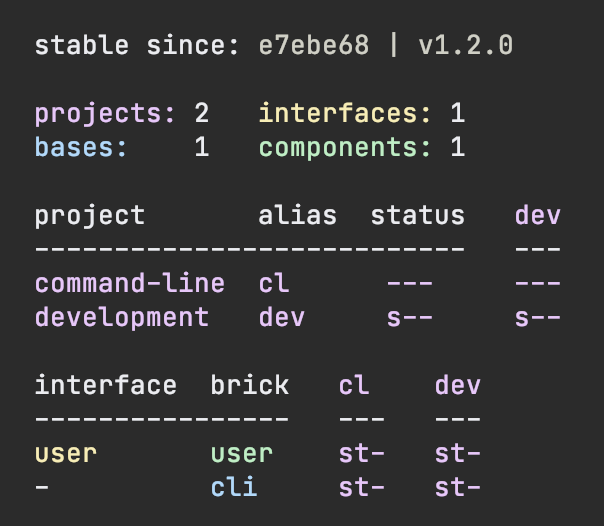
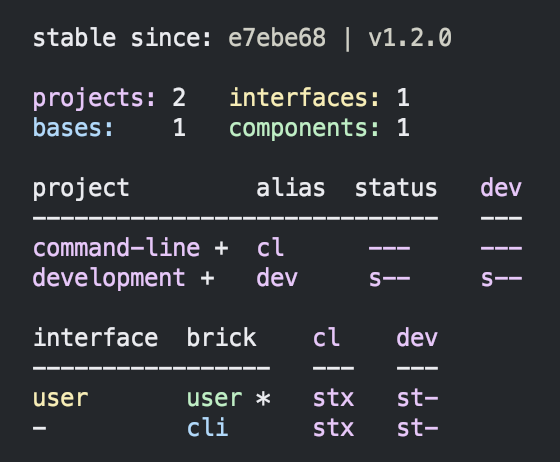
Show a + sign after projects when running the 'info' command if the project is indirectly changed (but itself unchanged).

diff --git a/readme.md b/readme.md
@@ -1443,6 +1443,23 @@ git log --pretty=format:'%H %d'
 Then it uses the first line of the output that matches the regular expression
 (e.g. `stable-*`) or if no match was found, the first commit in the repository.
 
+Earlier when we changed a project by editing its `deps.edn` file, it got a trailing `*`
+to indicate that it was changed. But what happens if only some of its bricks have changed?
+Let's try that by adding a comment to the `user.core` namespace:
+```
+(ns se.example.user.core)
+
+; hi
+(defn hello [name]
+  (str "Hello " name "!"))
+```
+...and execute the `info` command again:
+
+<img src="images/tagging-info-2.png" width="35%">
+
+Now the two projects are marked with a `+` which indicates that the projects themselves are unchanged
+but that at least one of their bricks has changed.
+
 ### Release
 
 When we release, we probably want the CI server to tag the release. Here we tag the first commit as `v1.1.0`
@@ -1456,7 +1473,7 @@ If we execute:
 ```
 poly info since:release
 ```
-<img src="images/tagging-info-2.png" width="32%">
+<img src="images/tagging-info-3.png" width="32%">
 
 ...it picks the latest release tag that follows the pattern defined in `workspace.edn`:
 ```
@@ -1468,7 +1485,7 @@ If we execute:
 ```
 poly info since:previous-release
 ```
-<img src="images/tagging-info-3.png" width="32%">
+<img src="images/tagging-info-4.png" width="32%">
 
 ...it picks the second latest release tag.
 
